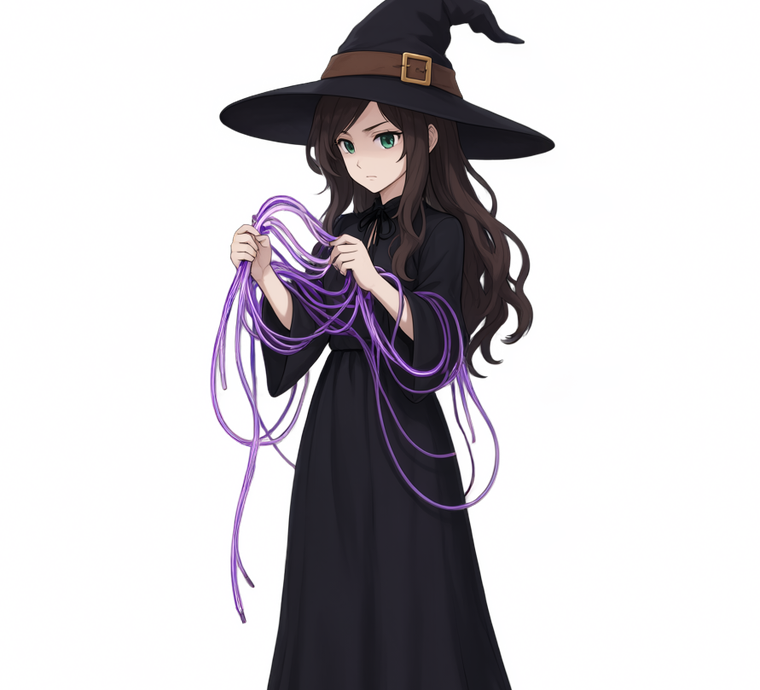
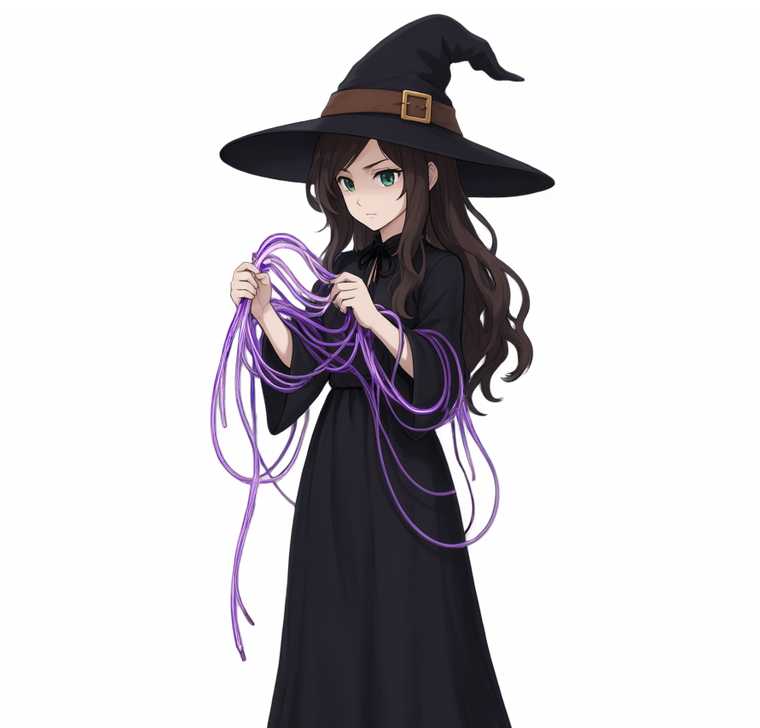
Fix voice arcs and hat, legacy hat and small-fixes face

Changed region(s): [[0.2724, 0.0, 0.7263, 0.913]]

diff --git a/src/api/assets.rs b/src/api/assets.rs
@@ -410,7 +410,7 @@ pub const SERVICE_ART: [ServiceArt; 19] = [
         slug: "legacy-refactor",
         image: include_bytes!("../../assets/services/legacy-refactor.png"),
         width: 760,
-        height: 690,
+        height: 728,
     },
     ServiceArt {
         slug: "local-private-dev",
@@ -433,8 +433,8 @@ pub const SERVICE_ART: [ServiceArt; 19] = [
     ServiceArt {
         slug: "small-fixes",
         image: include_bytes!("../../assets/services/small-fixes.png"),
-        width: 737,
-        height: 706,
+        width: 760,
+        height: 713,
     },
     ServiceArt {
         slug: "support",
@@ -451,8 +451,8 @@ pub const SERVICE_ART: [ServiceArt; 19] = [
     ServiceArt {
         slug: "voice-ai",
         image: include_bytes!("../../assets/services/voice-ai.png"),
-        width: 697,
-        height: 706,
+        width: 729,
+        height: 774,
     },
     ServiceArt {
         slug: "web-any",
